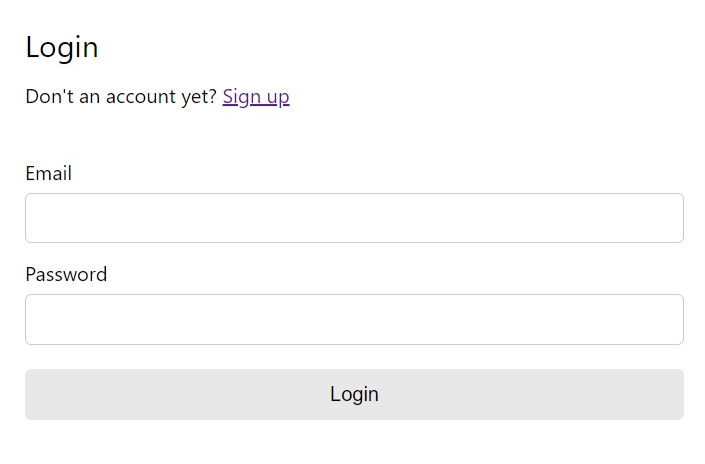
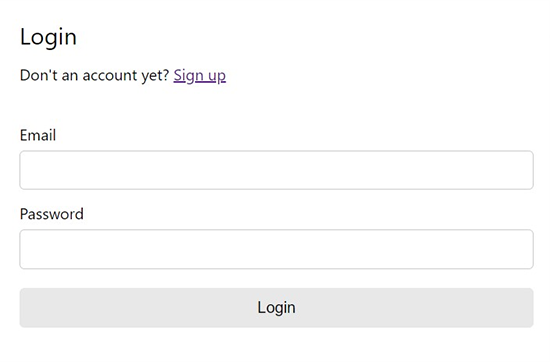
resize readme images

diff --git a/readme.md b/readme.md
@@ -1,11 +1,13 @@
-WIP Lerna + Yarn Workspaces monorepo of various UI components and NPM modules. Written with Typescript and tested with Jest.
+## NPM and UI Component Library
+
+Lerna + Yarn Workspaces monorepo of various UI components and NPM modules. Written with Typescript and tested with Jest.
 
 Just getting going, so far we have...
 
 1. [mock-data](https://github.com/unleashit/npm-library/tree/master/packages/mockData) - Typescript wrapper for [mock-data-generator](https://github.com/danibram/mocker-data-generator) to easily generate random data from a selection of templates or full custom schemas. Returns a JS object and/or a file in JSON format.
 2. [React pagination](https://github.com/unleashit/npm-library/tree/master/packages/pagination) - responsive pagination component for React in Typescript. Just give it a total, current offset and handler and it returns the new offset as needed.
-3. [React login component](https://github.com/unleashit/npm-library/tree/master/packages/login) - React login component in Typescript, Formik and Yup for validation. It accepts props including handlers, additional fields, custom Yup schema, custom header and more. Basic CSS is available.
-4. [React sign-up/registration component](https://github.com/unleashit/npm-library/tree/master/packages/signup) - React signup component in Typescript, Formik and Yup for validation. It accepts props including handlers, custom fields, custom Yup schema, custom header and more. Basic CSS is available.
+3. [React login component](https://github.com/unleashit/npm-library/tree/master/packages/login) - React login component in Typescript, Formik and Yup for validation. It accepts props including submit handlers, custom fields, custom Yup schema, custom header and more. Basic CSS is available.
+4. [React sign-up/registration component](https://github.com/unleashit/npm-library/tree/master/packages/signup) - React signup component in Typescript, Formik and Yup for validation. It accepts props including submit handlers, custom fields, custom Yup schema, custom header and more. Basic CSS is available.
 5. [React Help Desk](https://github.com/unleashit/npm-library) - coming soon
 
 A [demo app](https://github.com/unleashit/npm-library/tree/master/packages/demos) is available for previewing the components. Will probably soon be removed in favor of Storybook.
@@ -14,13 +16,12 @@ A [demo app](https://github.com/unleashit/npm-library/tree/master/packages/demos
 
 1. Install individual components via NPM: see component.
 
-2. Run the demo app (demos all components): ``` yarn start ```
+2. Run the demo app (demos all components): `yarn start`
 
+##### Other commands
 
-Other commands:
+Run all tests: `yarn test`
 
-Run all tests: ``` yarn test ```
-
-Run Storybook (WIP): ``` yarn storybook ```
+Run Storybook (WIP): `yarn storybook`
 
 Other scripts are available to build, publish to NPM, clean, etc.
